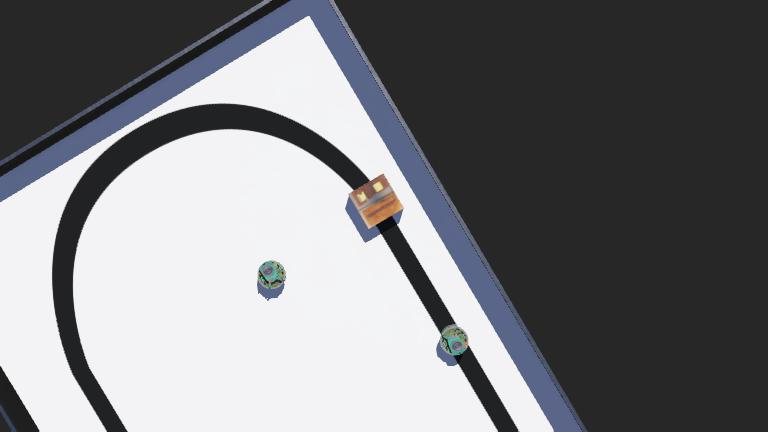
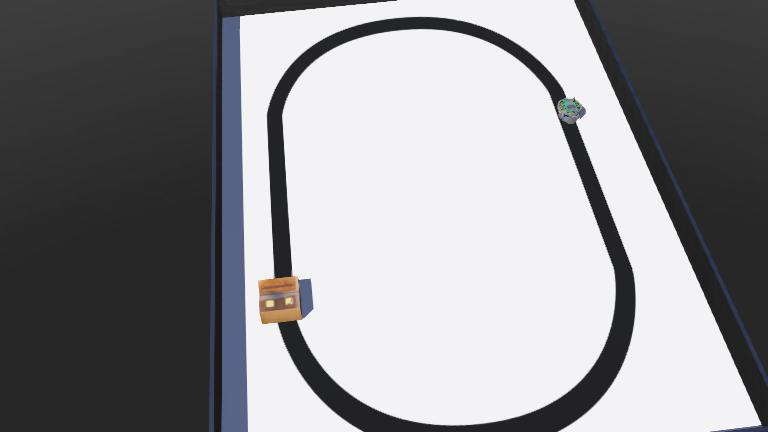
add obstacle tackler

diff --git a/controllers/obstacle_avoider/obstacle_avoider.py b/controllers/obstacle_avoider/obstacle_avoider.py
@@ -1,0 +1,109 @@
+from controller import Robot, DistanceSensor, Motor
+
+# Constants
+TIME_STEP = 32
+NB_DIST_SENS = 8
+PS_RIGHT_00 = 0
+PS_RIGHT_45 = 1
+PS_RIGHT_90 = 2
+PS_RIGHT_REAR = 3
+PS_LEFT_REAR = 4
+PS_LEFT_90 = 5
+PS_LEFT_45 = 6
+PS_LEFT_00 = 7
+
+NB_GROUND_SENS = 3
+GS_LEFT = 0
+GS_CENTER = 1
+GS_RIGHT = 2
+
+PS_OFFSET_SIMULATION = [300] * 8
+PS_A = 300
+PS_B = 100
+PS_C = 80
+
+# Initialize robot
+robot = Robot()
+
+# Initialize proximity sensors
+ps = []
+for i in range(NB_DIST_SENS):
+    sensor = robot.getDevice(f'ps{i}')
+    sensor.enable(TIME_STEP)
+    ps.append(sensor)
+
+# Initialize ground sensors
+gs = []
+for i in range(NB_GROUND_SENS):
+    sensor = robot.getDevice(f'gs{i}')
+    sensor.enable(TIME_STEP)
+    gs.append(sensor)
+
+# Initialize motors
+left_motor = robot.getDevice('left wheel motor')
+right_motor = robot.getDevice('right wheel motor')
+left_motor.setPosition(float('inf'))
+right_motor.setPosition(float('inf'))
+left_motor.setVelocity(0.0)
+right_motor.setVelocity(0.0)
+
+# State variables
+ontrack = True
+avoiding = False
+around = False
+recovery = False
+
+# Main loop
+while robot.step(TIME_STEP) != -1:
+    # Read sensor values
+    ps_value = [max(0, int(ps[i].getValue() - PS_OFFSET_SIMULATION[i])) for i in range(NB_DIST_SENS)]
+    gs_value = [gs[i].getValue() for i in range(NB_GROUND_SENS)]
+    
+    # Initialize speeds
+    speed_left = 0
+    speed_right = 0
+    
+    # Line Following Module
+    if ontrack:
+        delta_s = gs_value[GS_RIGHT] - gs_value[GS_LEFT]
+        lfm_forward_speed = 200
+        lfm_k_gs_speed = 0.4
+        speed_left = lfm_forward_speed - lfm_k_gs_speed * delta_s
+        speed_right = lfm_forward_speed + lfm_k_gs_speed * delta_s
+    
+    # Obstacle avoidance logic
+    if ps_value[PS_LEFT_00] > PS_A or ps_value[PS_RIGHT_00] > PS_A:
+        avoiding = True
+    
+    if avoiding:
+        if ps_value[PS_LEFT_90] < (PS_A - 20):
+            speed_left = 200
+            speed_right = -200
+        elif ps_value[PS_LEFT_90] >= PS_A:
+            avoiding = False
+            around = True
+    
+    if around:
+        if ps_value[PS_LEFT_90] < (PS_A - 20) and ps_value[PS_LEFT_45] < PS_B:
+            speed_left = -200
+            speed_right = 100
+        if any(v < 400 for v in gs_value):
+            around = False
+            recovery = True
+            ontrack = False
+    
+    if recovery:
+        if ps_value[PS_LEFT_90] > PS_C:
+            speed_left = 200
+            speed_right = -200
+        else:
+            recovery = False
+            ontrack = True
+    
+    # Set motor speeds
+    left_motor.setVelocity(speed_left * 0.00628)
+    right_motor.setVelocity(speed_right * 0.00628)
+    
+    # Debug output
+    print(f"Ontrack: {not (avoiding or around or recovery)}, "
+          f"Avoiding: {avoiding}, Around: {around}, Recovery: {recovery}")
